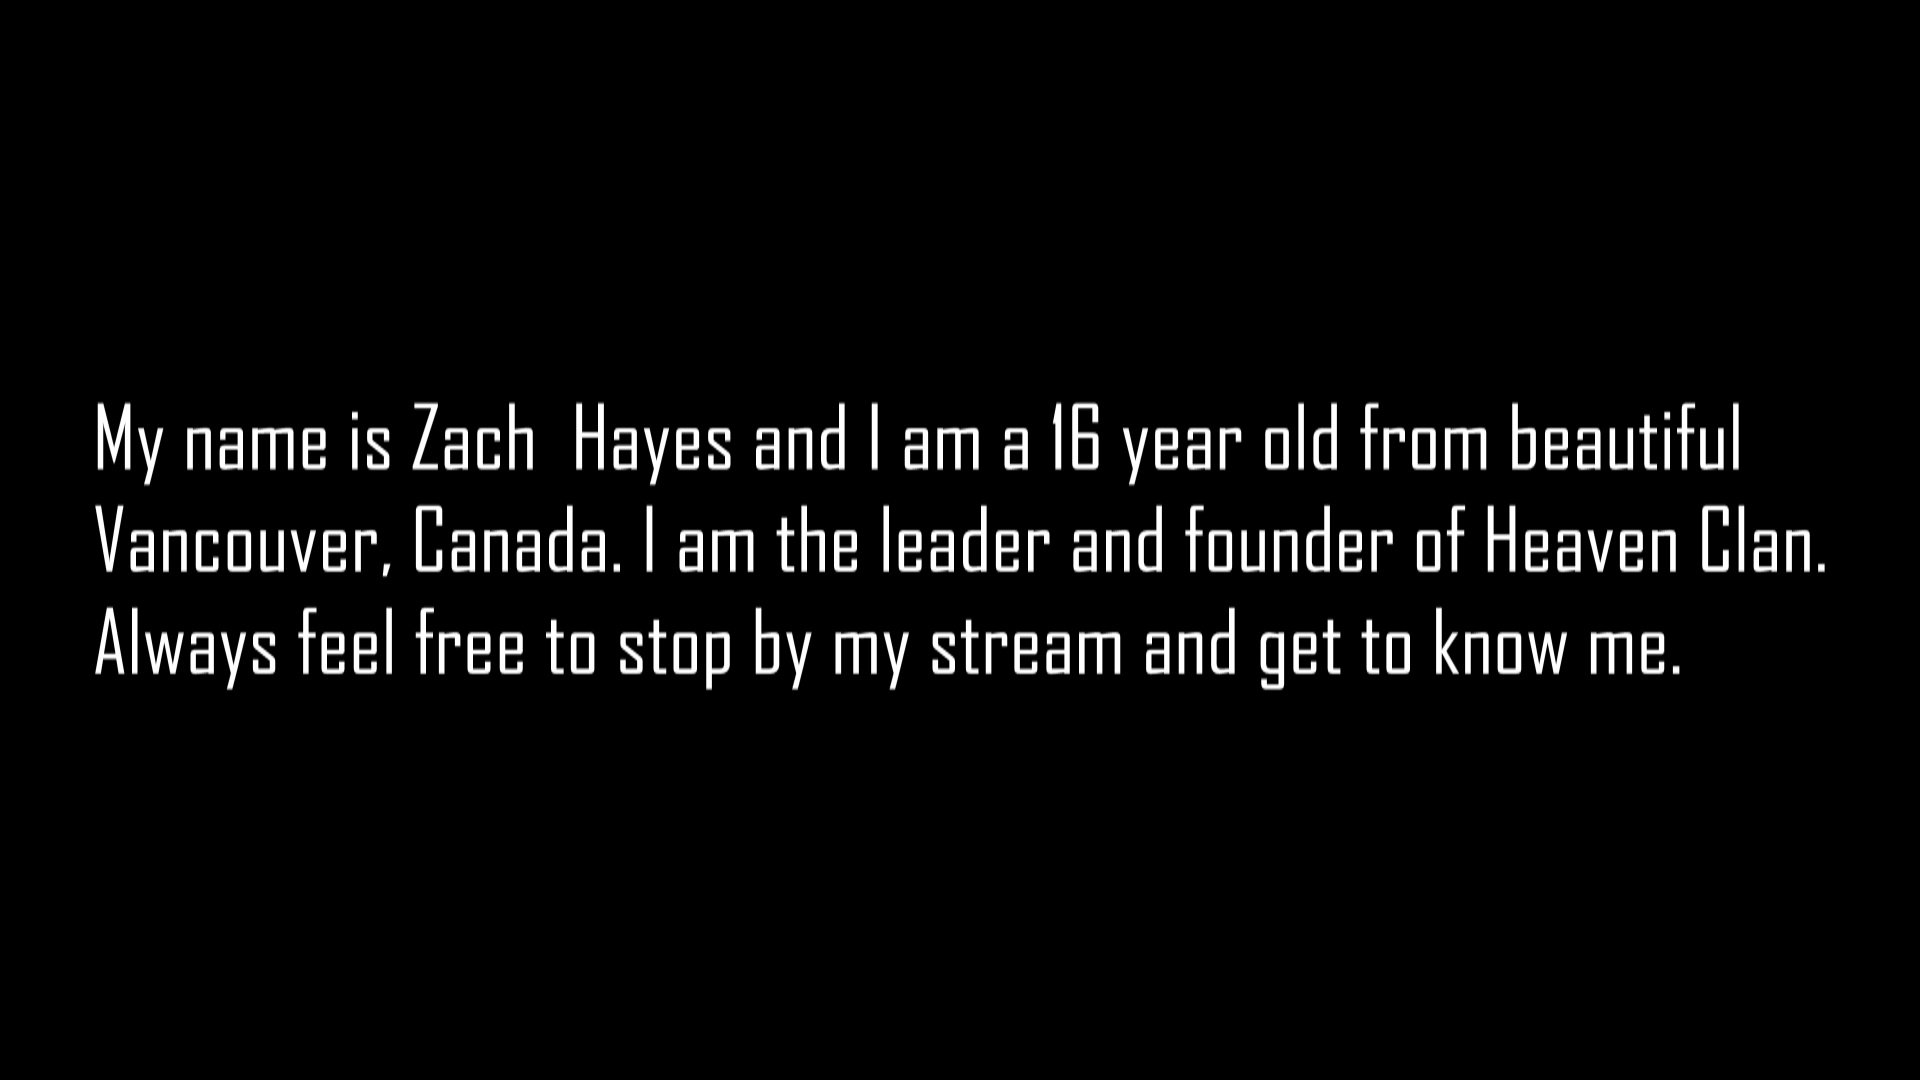
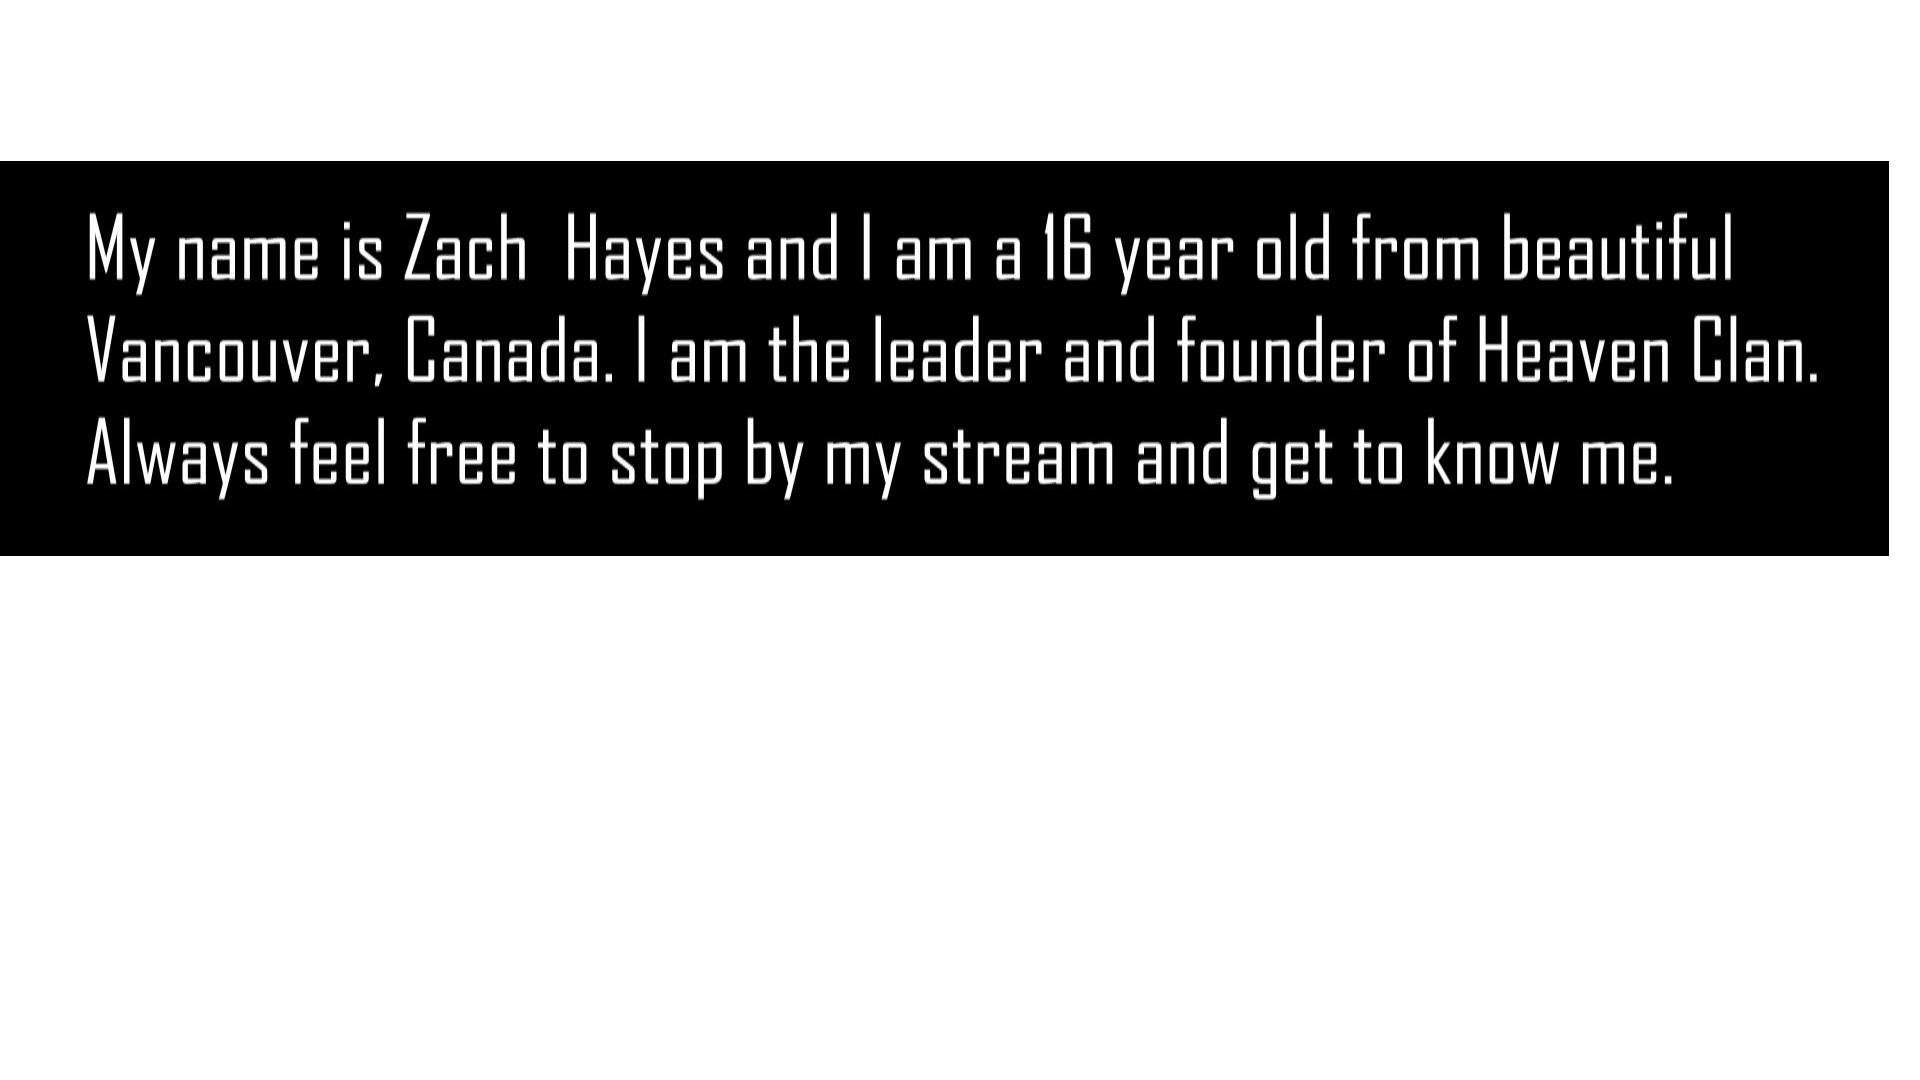
wefwef

diff --git a/views/roster.html b/views/roster.html
@@ -1,6 +1,6 @@
   <script>
   document.getElementById("content").innerHTML = 
-  '<div id="bio" class="transbox"><div class="picCenter"><img src="../images/hayes-layout.jpg" class="mainBio img-responsive"></div><div class="bio-div"><div class="bio-p"><img src="../images/hayes-bio.jpg"></div><div class="links-container"><div class="linkage"><h2>Twitch:</h2><a href="https://www.twitch.tv/elitehayestv">elitehayestv</a></div><div class="linkage"> <h2>Twitter:</h2><a href="https://twitter.com/elitehayess">elitehayess</a></div></div></div></div>';
+  '<div id="bio" class="transbox"><div class="picCenter"><img src="../images/hayes-layout.jpg" class="mainBio img-responsive"></div><div class="bio-div"><div class="bio-p"><img src="../images/hayes-bio.jpg" class="img-responsive"></div><div class="links-container"><div class="linkage"><h2>Twitch:</h2><a href="https://www.twitch.tv/elitehayestv">elitehayestv</a></div><div class="linkage"> <h2>Twitter:</h2><a href="https://twitter.com/elitehayess">elitehayess</a></div></div></div></div>';
     
     document.body.style.backgroundColor = "black";
     document.body.style.backgroundImage = "none";

diff --git a/js/shared/script.js b/js/shared/script.js
@@ -6,7 +6,7 @@ function connClick() {
 
 function hayesClick(){
  document.getElementById("content").innerHTML = 
-  '<div id="bio" class="transbox"><div class="picCenter"><img src="../images/hayes-layout.jpg" class="mainBio img-responsive"></div><div class="bio-div"><div class="bio-p"><img src="../images/hayes-bio.jpg"></div><div class="links-container"><div class="linkage"><h2>Twitch:</h2><a href="https://www.twitch.tv/elitehayestv">elitehayestv</a></div><div class="linkage"> <h2>Twitter:</h2><a href="https://twitter.com/elitehayess">elitehayess</a></div></div></div></div>';
+  '<div id="bio" class="transbox"><div class="picCenter"><img src="../images/hayes-layout.jpg" class="mainBio img-responsive"></div><div class="bio-div"><div class="bio-p"><img src="../images/hayes-bio.jpg" class="img-responsive"></div><div class="links-container"><div class="linkage"><h2>Twitch:</h2><a href="https://www.twitch.tv/elitehayestv">elitehayestv</a></div><div class="linkage"> <h2>Twitter:</h2><a href="https://twitter.com/elitehayess">elitehayess</a></div></div></div></div>';
 }
 
 function genesisClick(){
